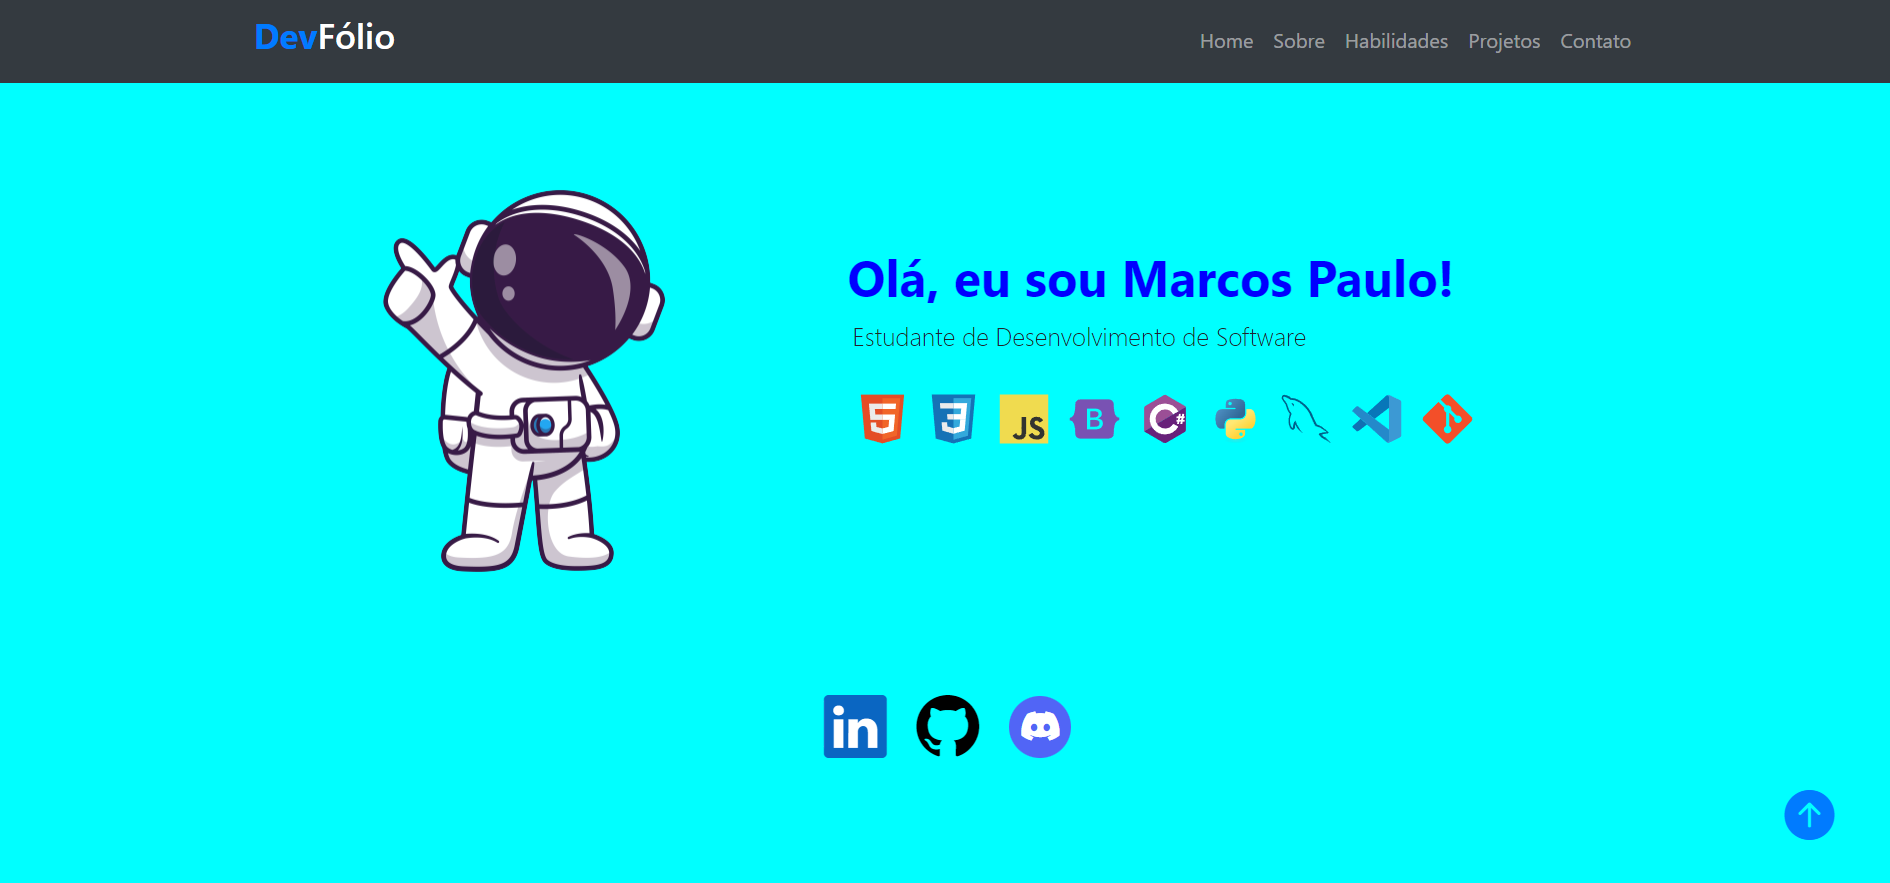
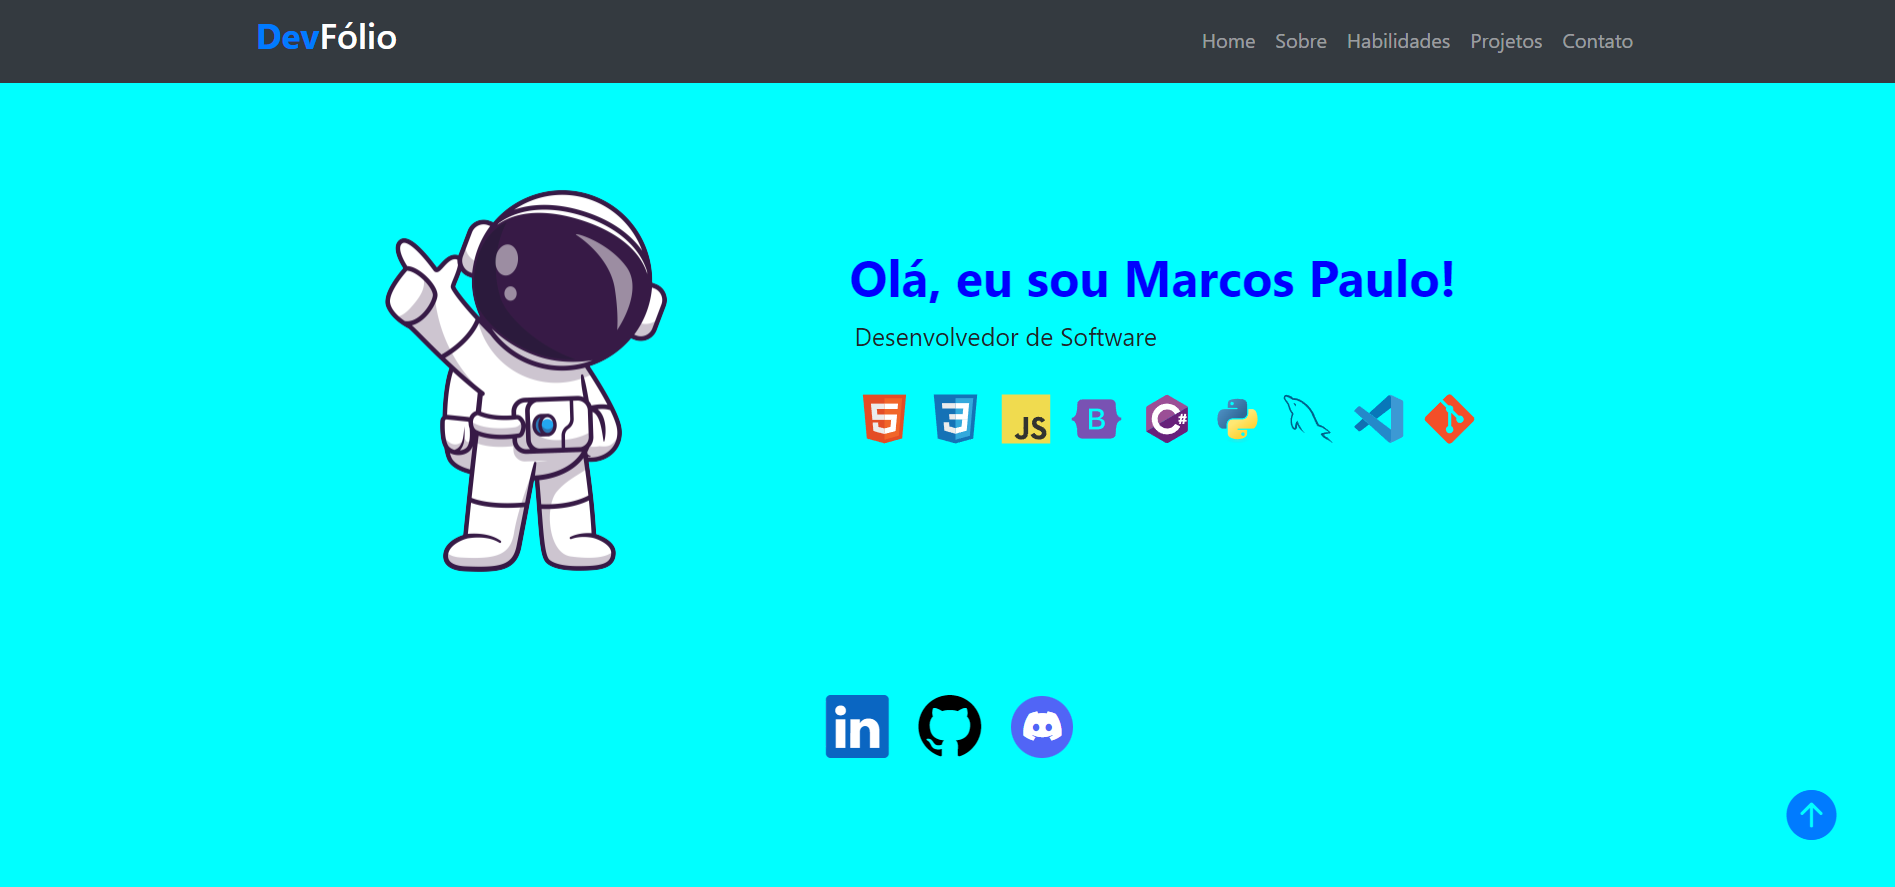
alteração descrição Home

diff --git a/index.html b/index.html
@@ -73,7 +73,7 @@
           <div class="col-12 col-md-7 mb-1 pb-5 d-flex flex-column justify-content-center txt-home">
             <div>
               <h1><span class="titulo font-weight-bold">Olá, eu sou Marcos Paulo!</span></h1>
-              <p class="lead ml-1">Estudante de Desenvolvimento de Software</p>
+              <p class="lead ml-1">Desenvolvedor de Software</p>
             </div>
             <div class="mt-3 d-flex justify-content-around tecnologias">
               <img class="icone" alt="Marcos-HTML" src="https://raw.githubusercontent.com/devicons/devicon/master/icons/html5/html5-original.svg">
